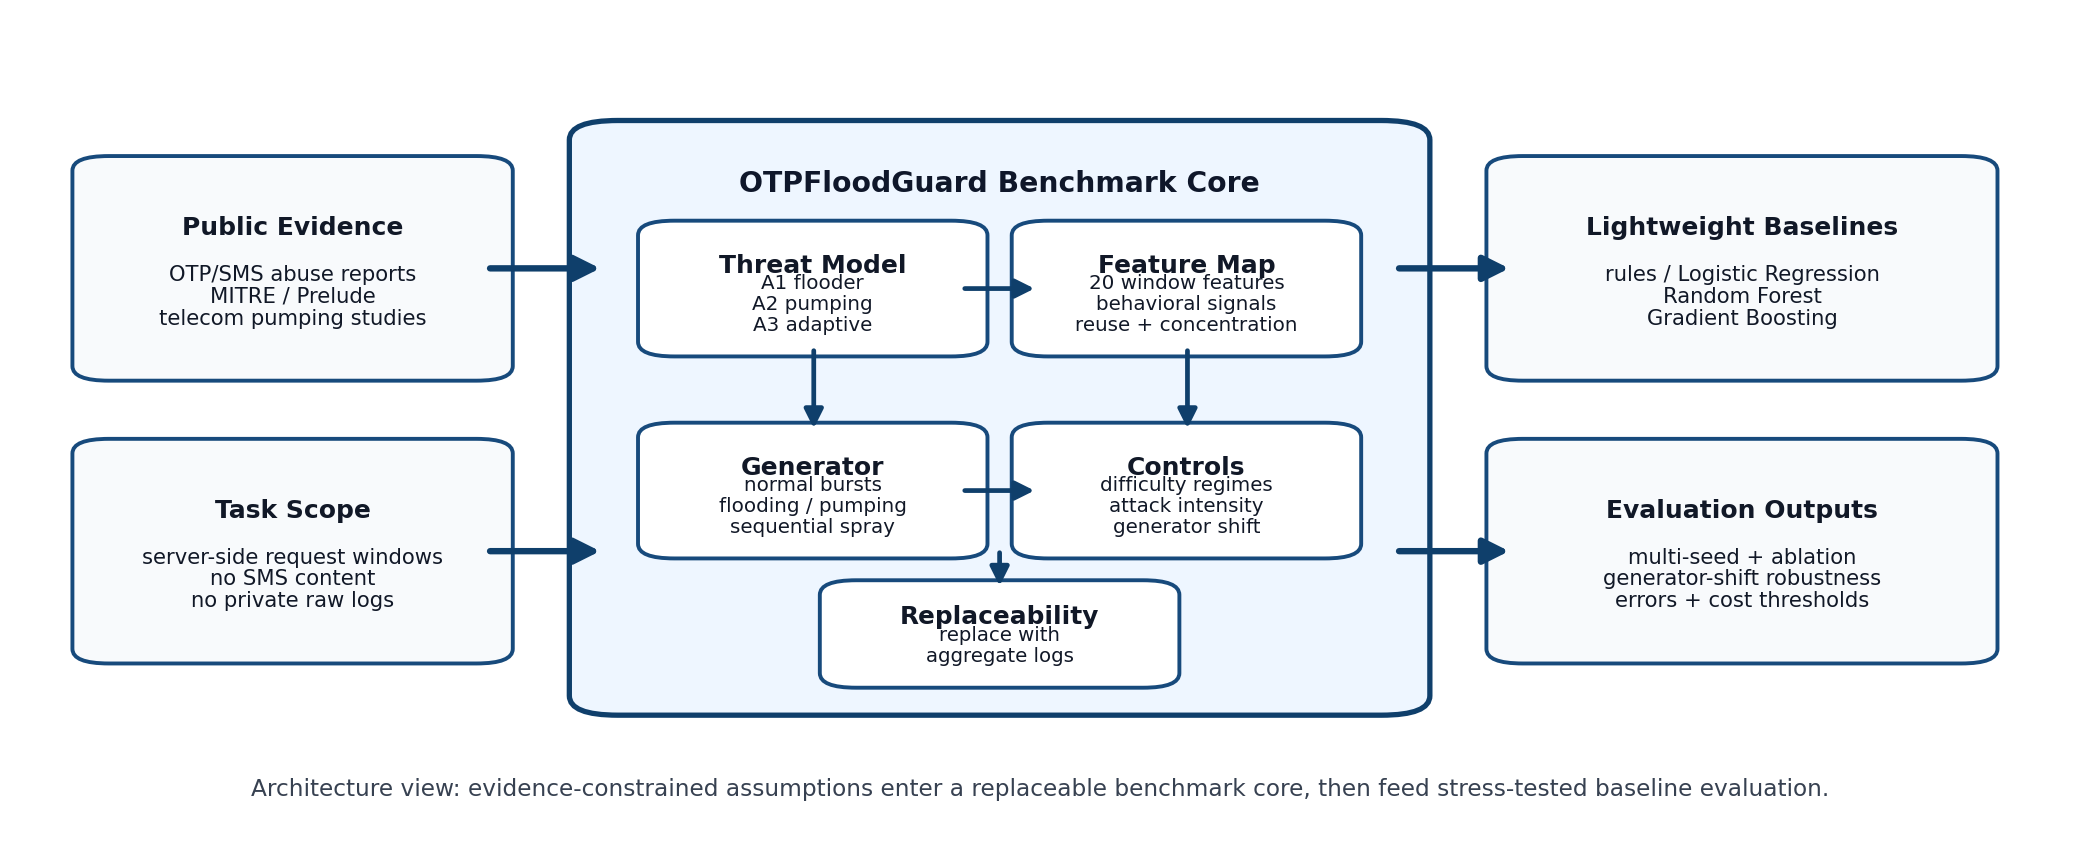
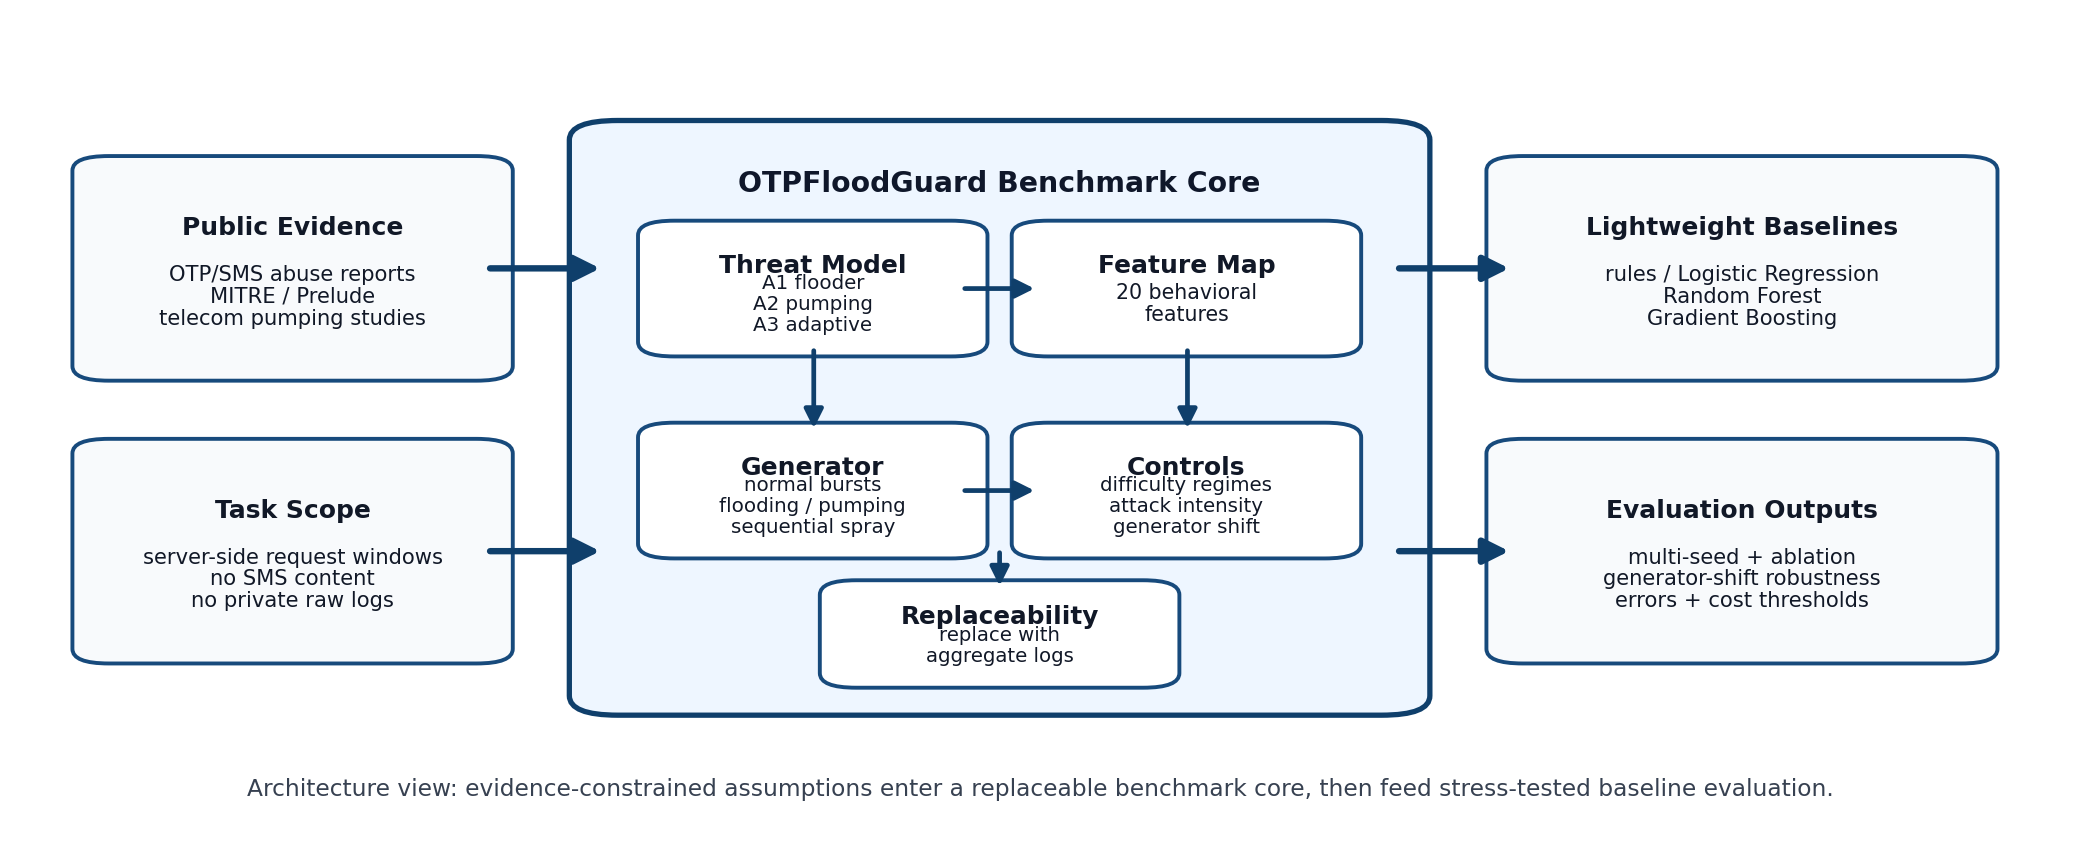
Document model configuration and refresh architecture figure

diff --git a/src/run_otpfloodguard_experiment.py b/src/run_otpfloodguard_experiment.py
@@ -1051,7 +1051,7 @@ def write_sanity_checks(df: pd.DataFrame, feature_cols: list[str]) -> None:
         zorder=4,
     )
     rounded_box(0.315, 0.61, 0.145, 0.14, "Threat Model", "A1 flooder\nA2 pumping\nA3 adaptive", fc="#FFFFFF", title_fs=9.0, body_fs=7.15)
-    rounded_box(0.500, 0.61, 0.145, 0.14, "Feature Map", "20 window features\nbehavioral signals\nreuse + concentration", fc="#FFFFFF", title_fs=9.0, body_fs=7.15)
+    rounded_box(0.500, 0.61, 0.145, 0.14, "Feature Map", "20 behavioral\nfeatures", fc="#FFFFFF", title_fs=9.0, body_fs=7.4)
     rounded_box(0.315, 0.36, 0.145, 0.14, "Generator", "normal bursts\nflooding / pumping\nsequential spray", fc="#FFFFFF", title_fs=9.0, body_fs=7.15)
     rounded_box(0.500, 0.36, 0.145, 0.14, "Controls", "difficulty regimes\nattack intensity\ngenerator shift", fc="#FFFFFF", title_fs=9.0, body_fs=7.15)
     rounded_box(0.405, 0.20, 0.150, 0.105, "Replaceability", "replace with\naggregate logs", fc="#FFFFFF", title_fs=8.9, body_fs=7.1)

diff --git a/README.md b/README.md
@@ -26,7 +26,14 @@ pip install -r requirements.txt
 python3 src/run_otpfloodguard_experiment.py --quick
 ```
 
-This creates a fast seed-42 smoke-test output in `results/quick_metrics.csv`.
+This creates a fast seed-42 quick-verification output in `results/quick_metrics.csv`.
+
+## Model configuration
+
+- Random Forest: `n_estimators=250`, `max_depth=10`, `min_samples_leaf=3`, `class_weight=None`.
+- Logistic Regression: `StandardScaler` fitted on the training split plus `LogisticRegression(max_iter=1000)` with default L2 regularization.
+- Gradient Boosting: scikit-learn `GradientBoostingClassifier` default settings with the fixed random seed.
+- Tuned rule baseline: request, failure-rate, prefix-concentration, and repeat-IP thresholds selected on the training split only.
 
 ## Reproduce the paper results
 
